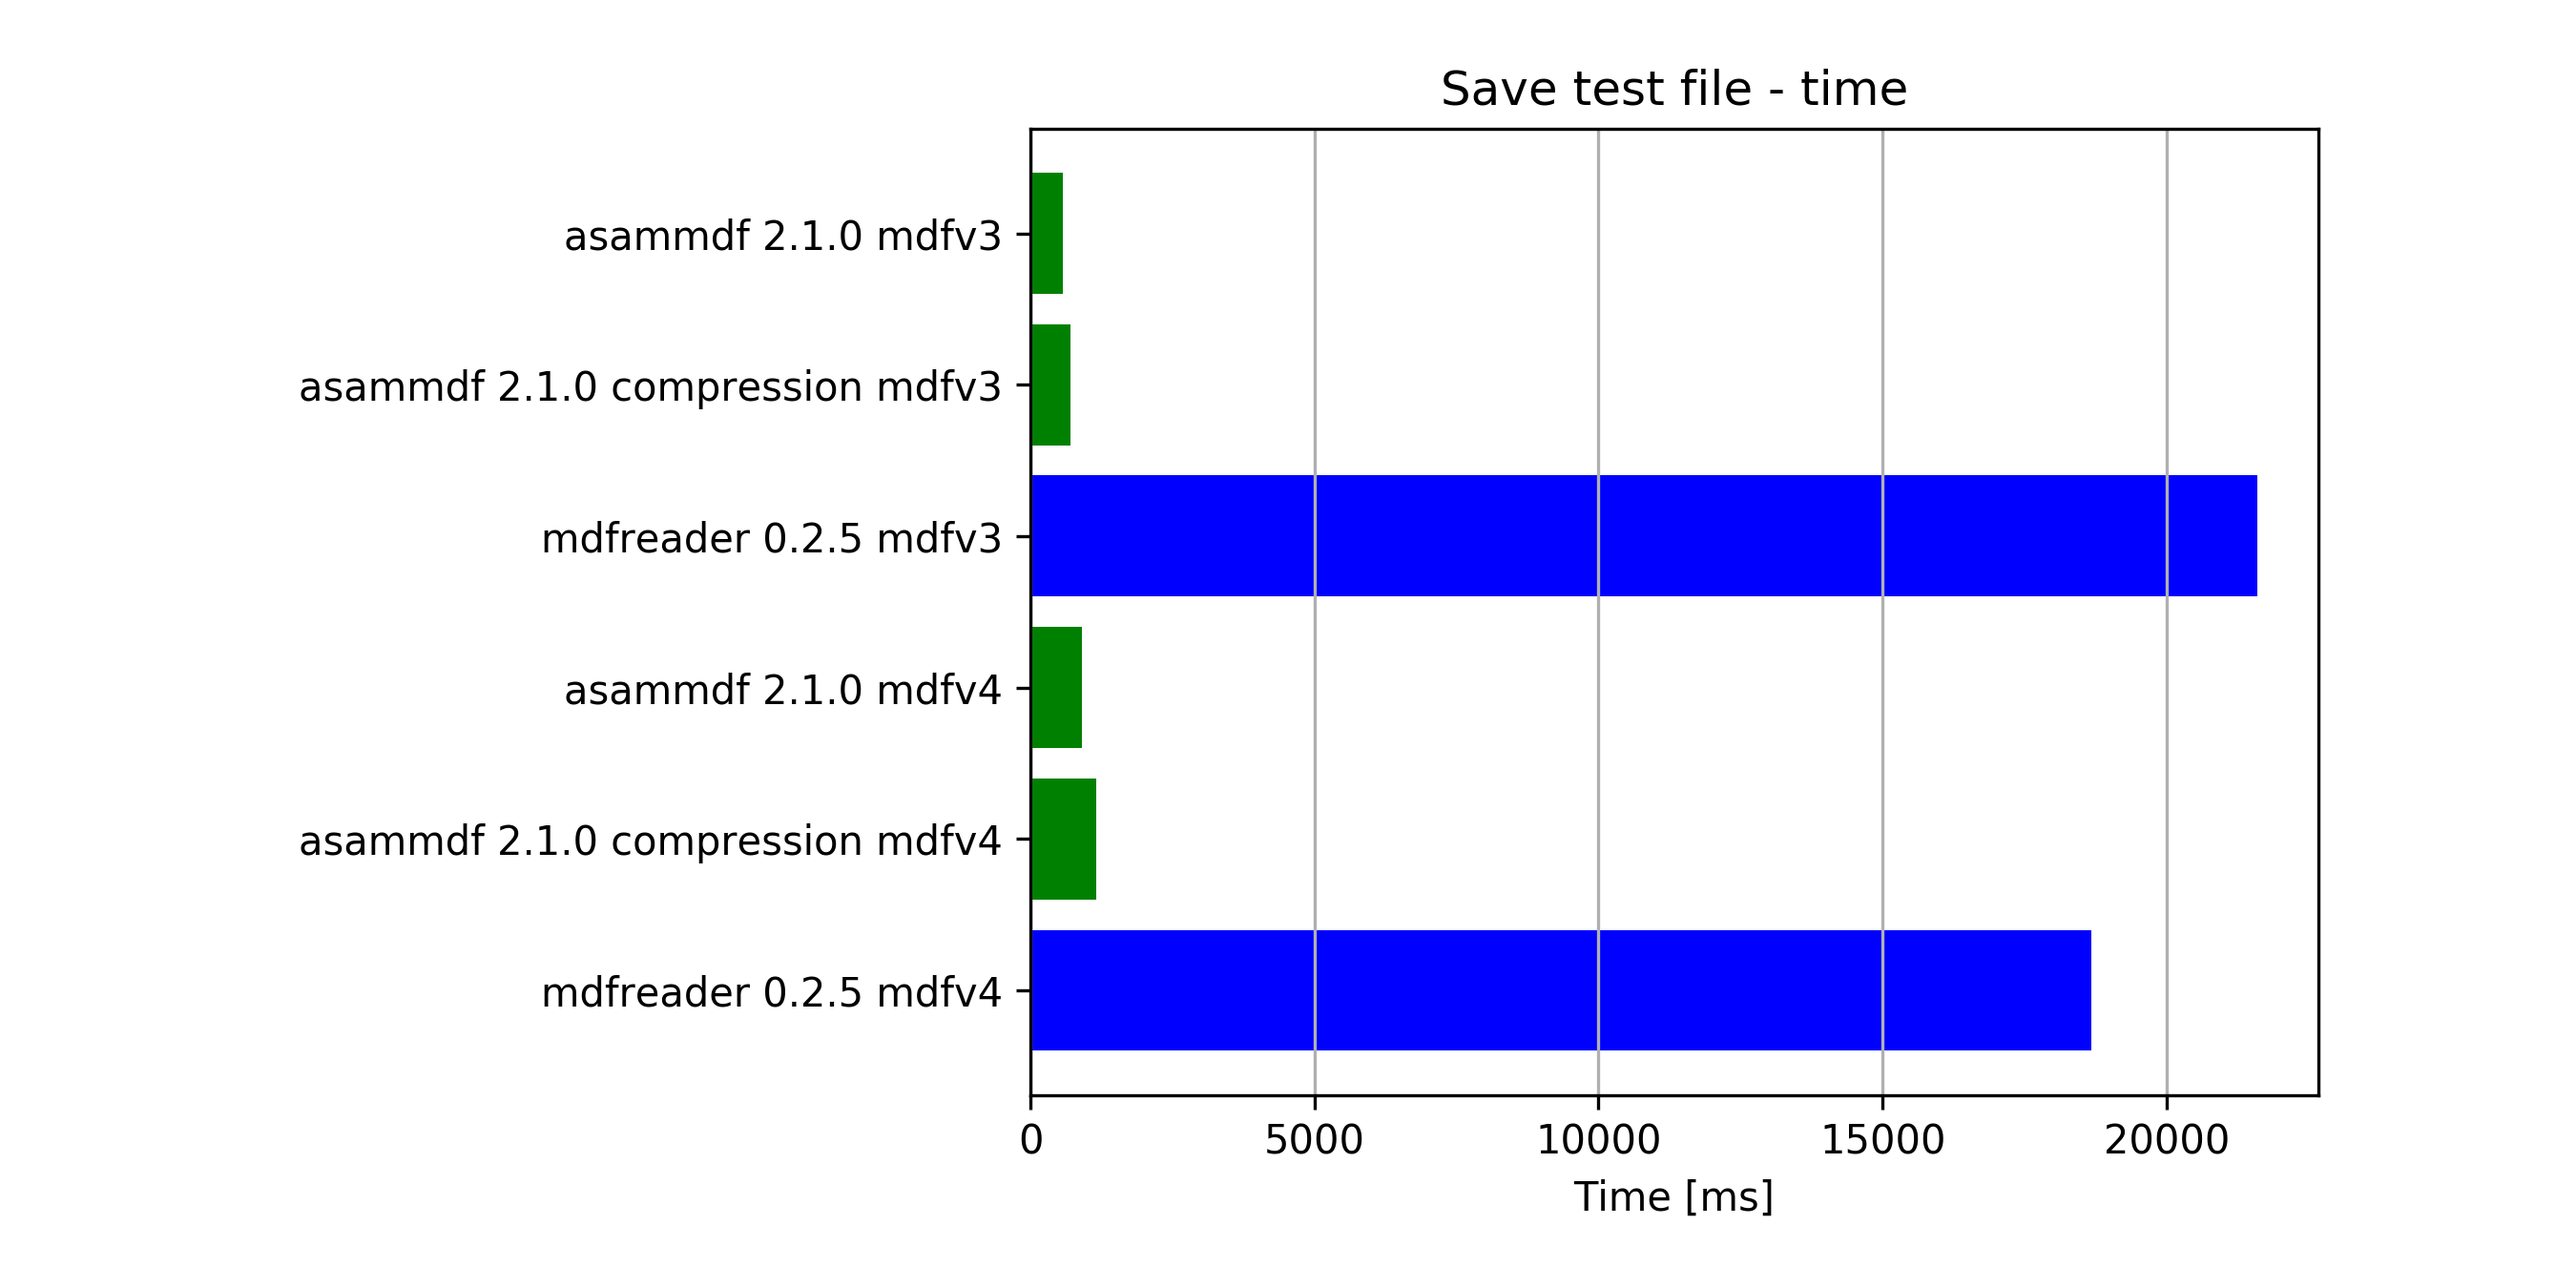
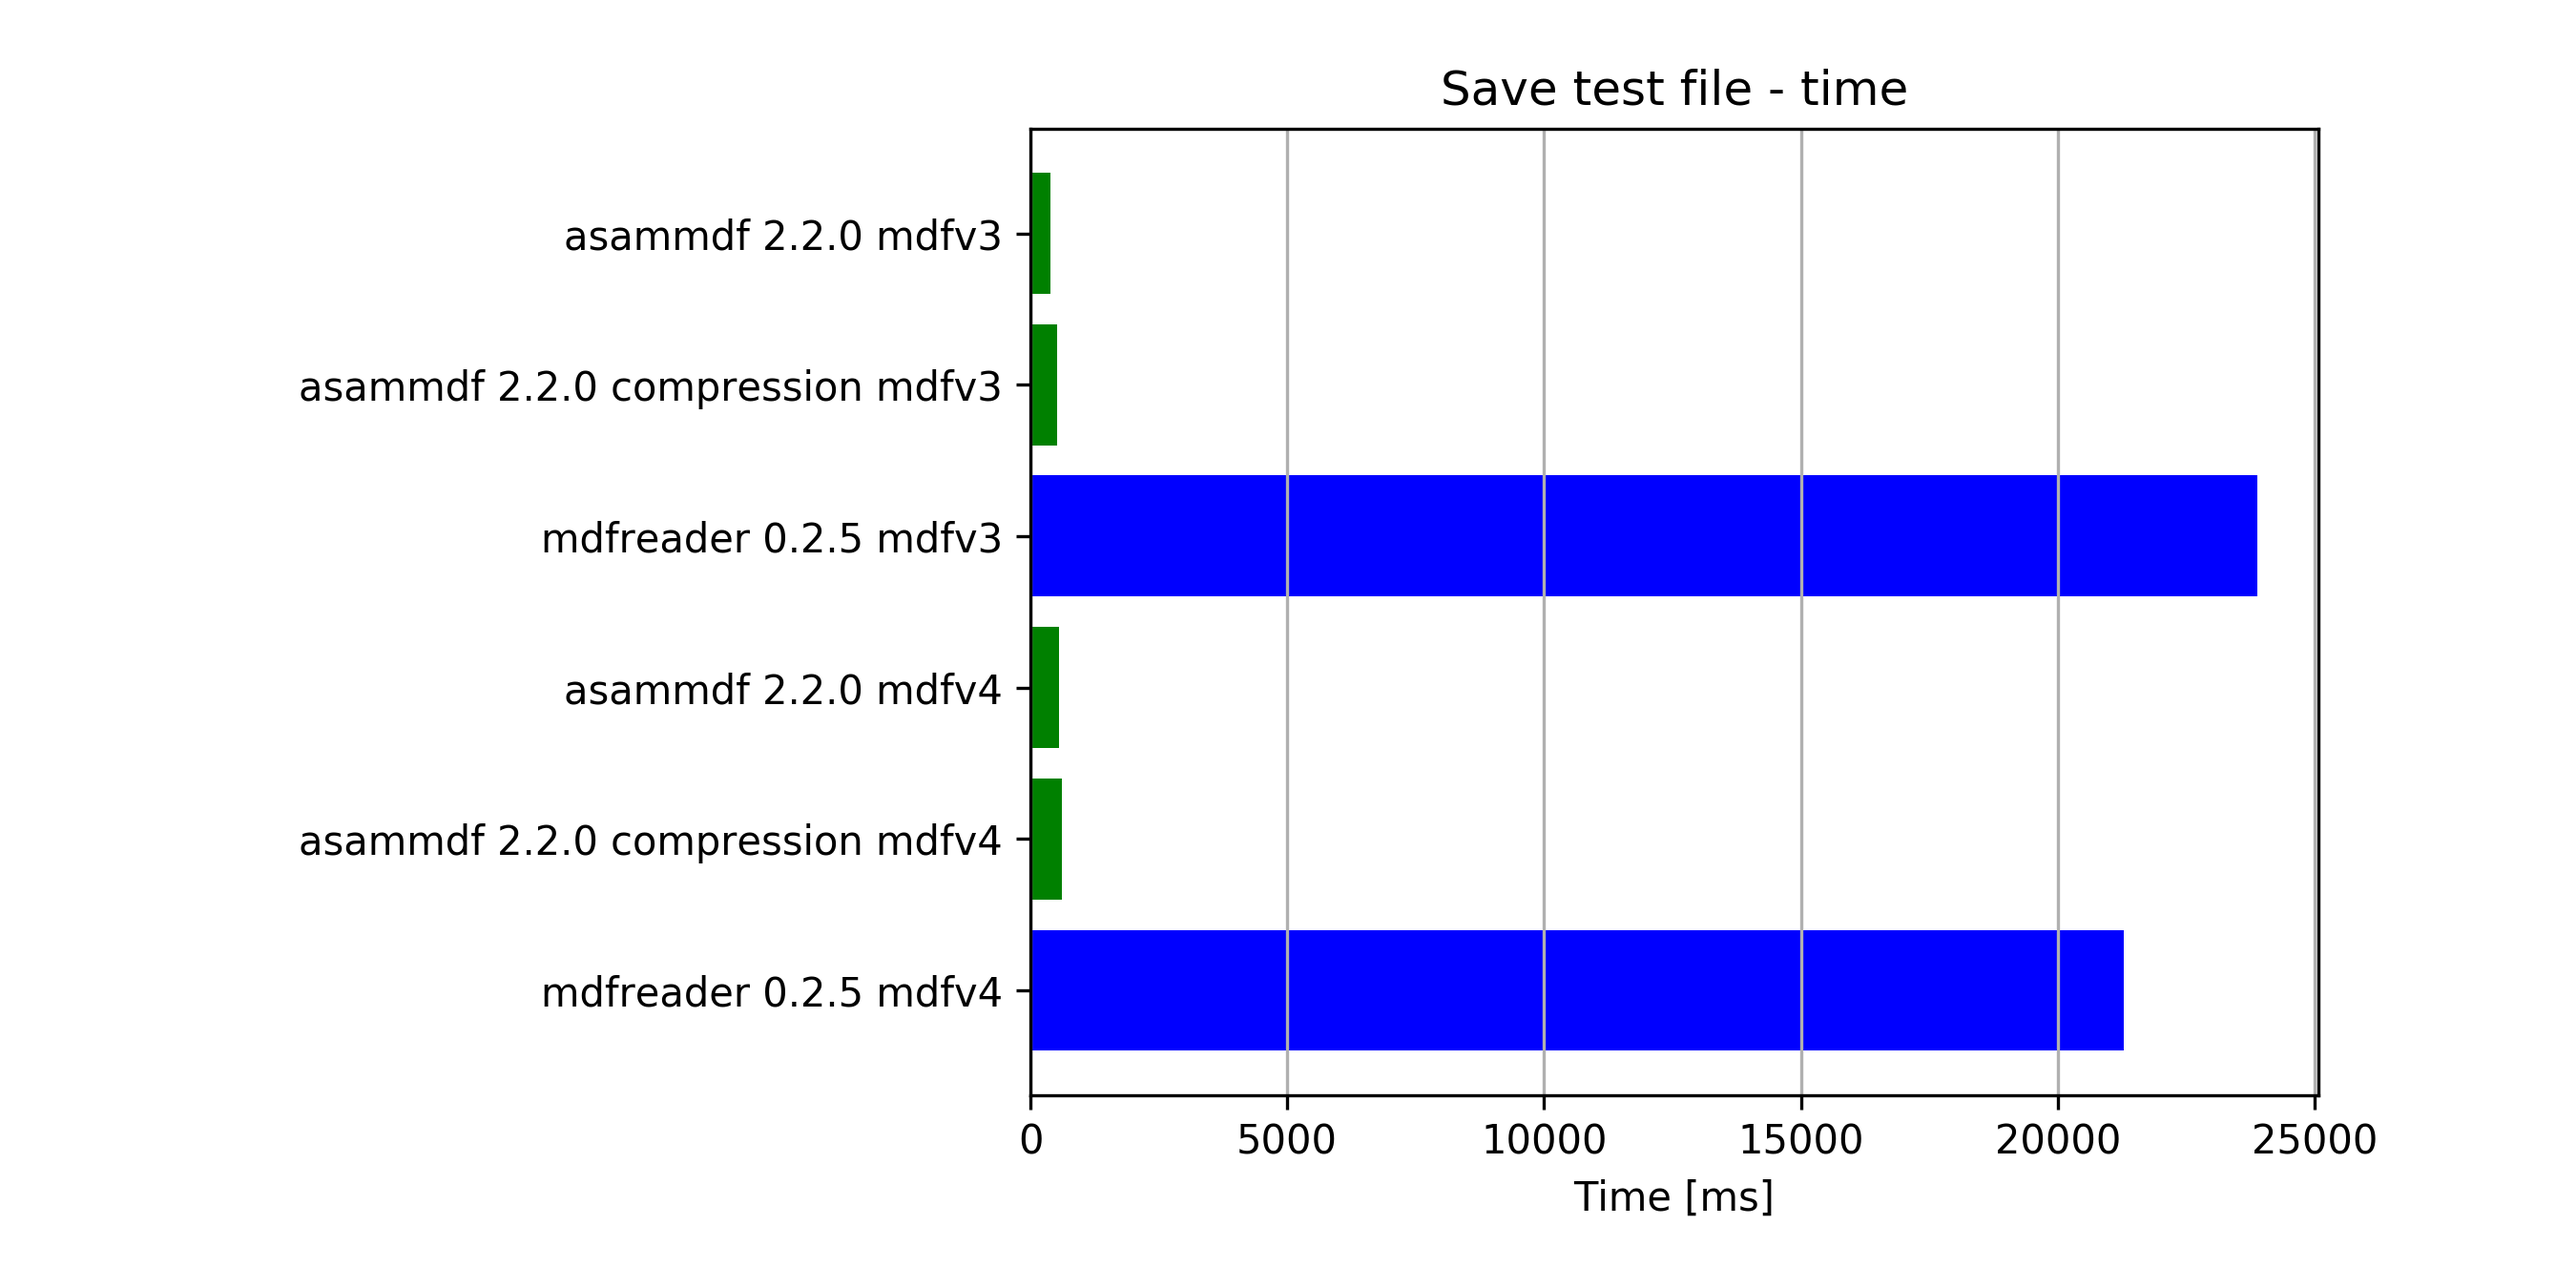
update benchmark data for release 2.2.0

diff --git a/asammdf/__init__.py b/asammdf/__init__.py
@@ -3,7 +3,7 @@ from .mdf4 import MDF4
 from .mdf import MDF
 from .signal import Signal
 
-__version__ = '2.1.2'
+__version__ = '2.2.0'
 
 __all__ = ['__version__',
            'MDF',

diff --git a/README.rst b/README.rst
@@ -58,7 +58,7 @@ Check the *examples* folder for extended usage demo.
 
 Documentation
 =============
-http://asammdf.readthedocs.io/en/2.1.2/
+http://asammdf.readthedocs.io/en/stable
 
 Installation
 ============
@@ -97,9 +97,10 @@ Benchmark environment
 
 Notations used in the results
 
-* nodata = MDF object created with load_measured_data=False (raw channel data no loaded into RAM)
-* compression = MDF object created with compression=True (raw channel data loaded into RAM and compressed)
-* noconvert = MDF object created with convertAfterRead=False
+* nodata = MDF object created with load_measured_data=False (raw channel data not loaded into RAM)
+* compression = MDF object created with compression=True/blosc
+* compression bcolz 6 = MDF object created with compression=6
+* noDataLoading = MDF object read with noDataLoading=True
 
 Files used for benchmark:
 * 183 groups
@@ -109,42 +110,40 @@ Files used for benchmark:
 ================================================== ========= ========
 Open file                                          Time [ms] RAM [MB]
 ================================================== ========= ========
-asammdf 2.1.0 mdfv3                                     1031      284
-asammdf 2.1.0 compression mdfv3                         1259      192
-asammdf 2.1.0 nodata mdfv3                               584      114
-mdfreader 0.2.5 mdfv3                                   3809      455
-mdfreader 0.2.5 no convert mdfv3                        3498      321
-asammdf 2.1.0 mdfv4                                     2109      341
-asammdf 2.1.0 compression mdfv4                         2405      239
-asammdf 2.1.0 nodata mdfv4                              1686      159
-mdfreader 0.2.5 mdfv4                                  44400      578
-mdfreader 0.2.5 noconvert mdfv4                        43867      449
+asammdf 2.2.0 mdfv3                                     1149      294
+asammdf 2.2.0 compression mdfv3                         1368      202
+asammdf 2.2.0 nodata mdfv3                               861      123
+mdfreader 0.2.5 mdfv3                                   3755      455
+asammdf 2.2.0 mdfv4                                     2316      348
+asammdf 2.2.0 compression mdfv4                         2694      247
+asammdf 2.2.0 nodata mdfv4                              1886      166
+mdfreader 0.2.5 mdfv4                                  43210      578
 ================================================== ========= ========
 
 
 ================================================== ========= ========
 Save file                                          Time [ms] RAM [MB]
 ================================================== ========= ========
-asammdf 2.1.0 mdfv3                                      713      286
-asammdf 2.1.0 compression mdfv3                          926      194
-mdfreader 0.2.5 mdfv3                                  19862     1226
-asammdf 2.1.0 mdfv4                                     1109      347
-asammdf 2.1.0 compression mdfv4                         1267      246
-mdfreader 0.2.5 mdfv4                                  17518     1656
+asammdf 2.2.0 mdfv3                                      413      297
+asammdf 2.2.0 compression mdfv3                          592      204
+mdfreader 0.2.5 mdfv3                                  20038     1224
+asammdf 2.2.0 mdfv4                                      720      357
+asammdf 2.2.0 compression mdfv4                          674      253
+mdfreader 0.2.5 mdfv4                                  17553     1687
 ================================================== ========= ========
 
 
 ================================================== ========= ========
 Get all channels (36424 calls)                     Time [ms] RAM [MB]
 ================================================== ========= ========
-asammdf 2.1.0 mdfv3                                     3943      295
-asammdf 2.1.0 compression mdfv3                        29682      203
-asammdf 2.1.0 nodata mdfv3                             23215      129
-mdfreader 0.2.5 mdfv3                                     38      455
-asammdf 2.1.0 mdfv4                                     3227      351
-asammdf 2.1.0 compression mdfv4                        26070      250
-asammdf 2.1.0 nodata mdfv4                             21619      171
-mdfreader 0.2.5 mdfv4                                     51      578
+asammdf 2.2.0 mdfv3                                      784      299
+asammdf 2.2.0 compression mdfv3                        25345      207
+asammdf 2.2.0 nodata mdfv3                             18657      133
+mdfreader 0.2.5 mdfv3                                     35      455
+asammdf 2.2.0 mdfv4                                      695      354
+asammdf 2.2.0 compression mdfv4                        24325      255
+asammdf 2.2.0 nodata mdfv4                             20745      176
+mdfreader 0.2.5 mdfv4                                     50      578
 ================================================== ========= ========
 
 
@@ -153,16 +152,17 @@ Python 3 x64
 
 Benchmark environment
 
-* 3.6.1 (v3.6.1:69c0db5, Mar 21 2017, 18:41:36) [MSC v.1900 64 bit (AMD64)]
+* 3.6.2 (v3.6.2:5fd33b5, Jul  8 2017, 04:57:36) [MSC v.1900 64 bit (AMD64)]
 * Windows-10-10.0.14393-SP0
 * Intel64 Family 6 Model 94 Stepping 3, GenuineIntel
 * 16GB installed RAM
 
 Notations used in the results
 
-* nodata = MDF object created with load_measured_data=False (raw channel data no loaded into RAM)
-* compression = MDF object created with compression=True (raw channel data loaded into RAM and compressed)
-* noconvert = MDF object created with convertAfterRead=False
+* nodata = MDF object created with load_measured_data=False (raw channel data not loaded into RAM)
+* compression = MDF object created with compression=True/blosc
+* compression bcolz 6 = MDF object created with compression=6
+* noDataLoading = MDF object read with noDataLoading=True
 
 Files used for benchmark:
 * 183 groups
@@ -172,40 +172,38 @@ Files used for benchmark:
 ================================================== ========= ========
 Open file                                          Time [ms] RAM [MB]
 ================================================== ========= ========
-asammdf 2.1.0 mdfv3                                      801      352
-asammdf 2.1.0 compression mdfv3                          946      278
-asammdf 2.1.0 nodata mdfv3                               490      172
-mdfreader 0.2.5 mdfv3                                   2962      525
-mdfreader 0.2.5 no convert mdfv3                        2740      392
-asammdf 2.1.0 mdfv4                                     1674      440
-asammdf 2.1.0 compression mdfv4                         1916      343
-asammdf 2.1.0 nodata mdfv4                              1360      245
-mdfreader 0.2.5 mdfv4                                  31915      737
-mdfreader 0.2.5 noconvert mdfv4                        31425      607
+asammdf 2.2.0 mdfv3                                     1088      379
+asammdf 2.2.0 compression mdfv3                         1287      298
+asammdf 2.2.0 nodata mdfv3                               896      198
+mdfreader 0.2.5 mdfv3                                   3533      537
+asammdf 2.2.0 mdfv4                                     2027      464
+asammdf 2.2.0 compression mdfv4                         2504      367
+asammdf 2.2.0 nodata mdfv4                              1668      268
+mdfreader 0.2.5 mdfv4                                  34908      748
 ================================================== ========= ========
 
 
 ================================================== ========= ========
 Save file                                          Time [ms] RAM [MB]
 ================================================== ========= ========
-asammdf 2.1.0 mdfv3                                      575      353
-asammdf 2.1.0 compression mdfv3                          705      276
-mdfreader 0.2.5 mdfv3                                  21591     1985
-asammdf 2.1.0 mdfv4                                      913      447
-asammdf 2.1.0 compression mdfv4                         1160      352
-mdfreader 0.2.5 mdfv4                                  18666     2782
+asammdf 2.2.0 mdfv3                                      398      379
+asammdf 2.2.0 compression mdfv3                          523      302
+mdfreader 0.2.5 mdfv3                                  23881     1997
+asammdf 2.2.0 mdfv4                                      554      471
+asammdf 2.2.0 compression mdfv4                          615      373
+mdfreader 0.2.5 mdfv4                                  21288     2795
 ================================================== ========= ========
 
 
 ================================================== ========= ========
 Get all channels (36424 calls)                     Time [ms] RAM [MB]
 ================================================== ========= ========
-asammdf 2.1.0 mdfv3                                     2835      363
-asammdf 2.1.0 compression mdfv3                        18188      287
-asammdf 2.1.0 nodata mdfv3                             11926      188
-mdfreader 0.2.5 mdfv3                                     29      525
-asammdf 2.1.0 mdfv4                                     2338      450
-asammdf 2.1.0 compression mdfv4                        15566      355
-asammdf 2.1.0 nodata mdfv4                             12598      260
-mdfreader 0.2.5 mdfv4                                     39      737
+asammdf 2.2.0 mdfv3                                      577      383
+asammdf 2.2.0 compression mdfv3                        13504      306
+asammdf 2.2.0 nodata mdfv3                              9506      210
+mdfreader 0.2.5 mdfv3                                     30      536
+asammdf 2.2.0 mdfv4                                      498      469
+asammdf 2.2.0 compression mdfv4                        15310      377
+asammdf 2.2.0 nodata mdfv4                             12565      280
+mdfreader 0.2.5 mdfv4                                     40      748
 ================================================== ========= ========

diff --git a/README.md b/README.md
@@ -58,7 +58,7 @@ Check the *examples* folder for extended usage demo.
 
 Documentation
 =============
-http://asammdf.readthedocs.io/en/2.1.2/
+http://asammdf.readthedocs.io/en/stable
 
 Installation
 ============
